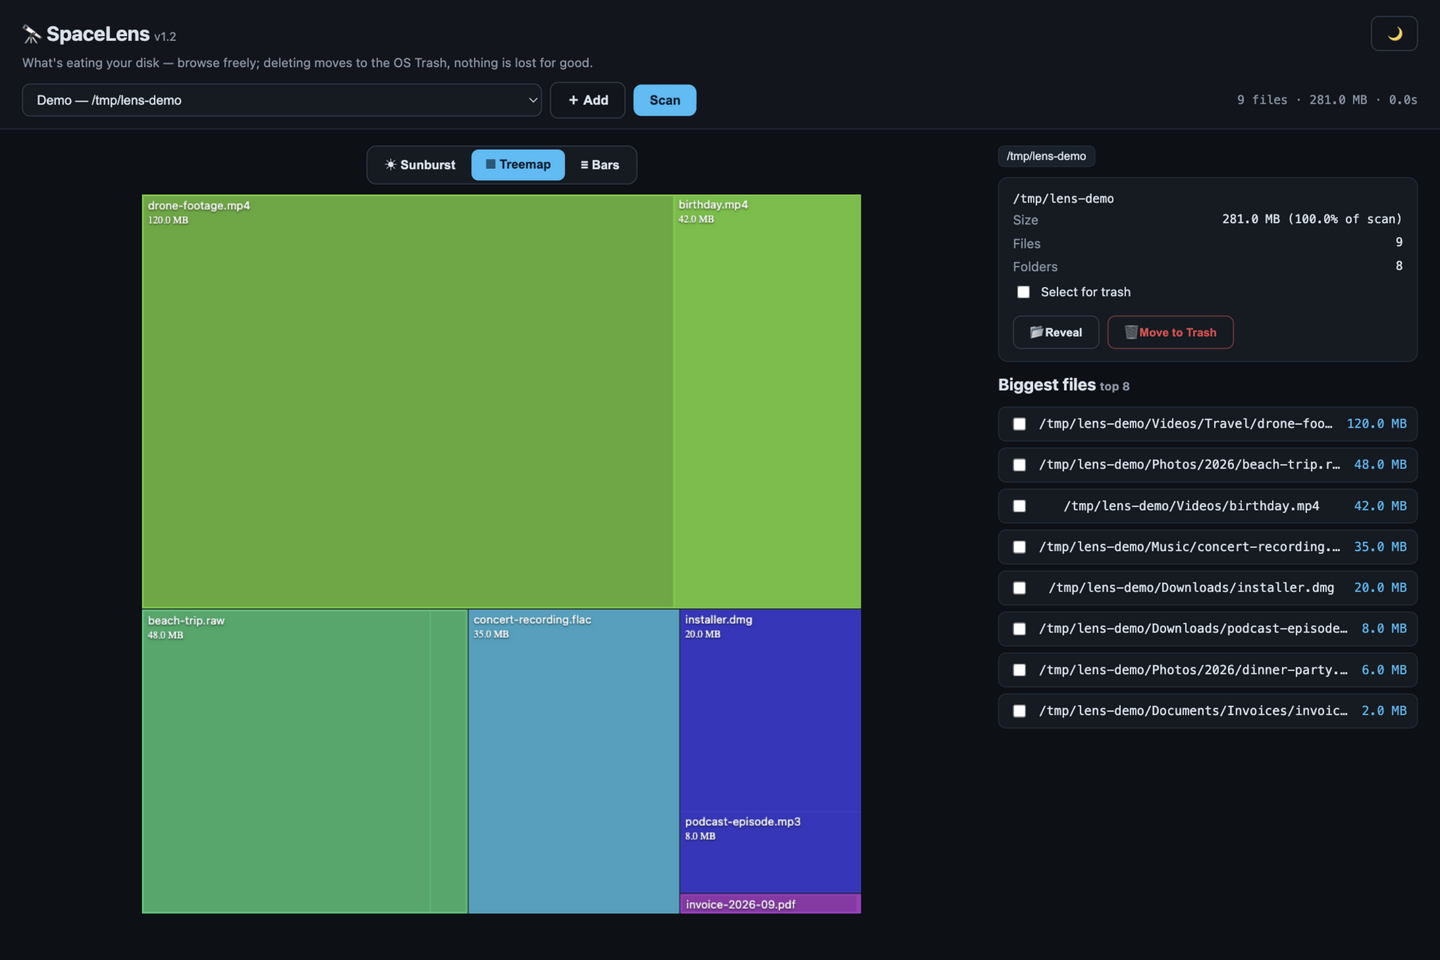
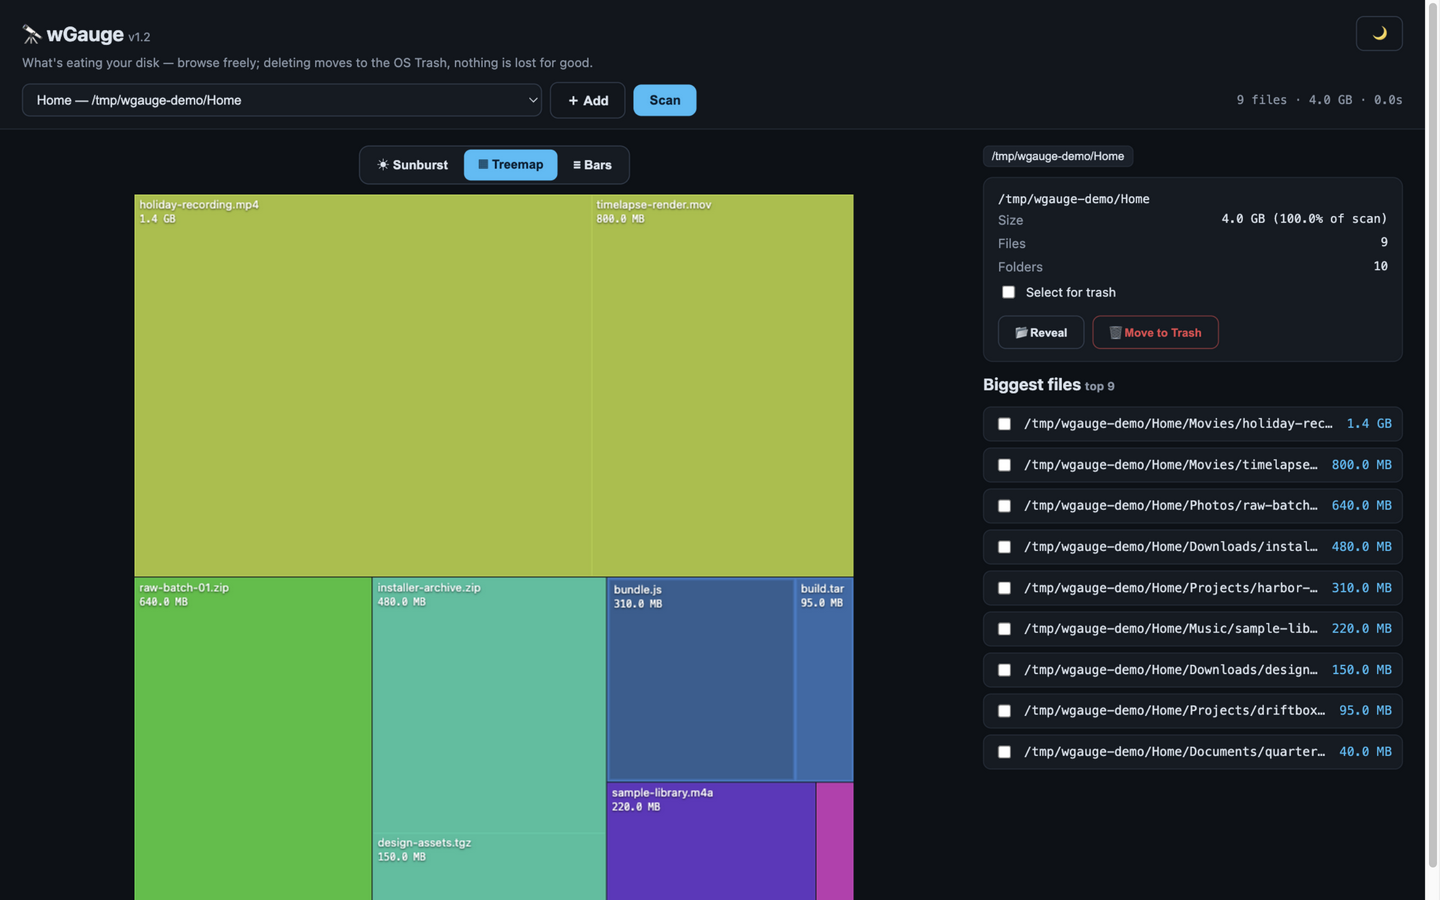
Fresh privacy-safe screenshots for every app; finish the wGrid docs and rename leftovers
- replace every screenshot with new ones staged on a demo machine
  (demo-mac.local / user demo, documentation-range IPs, fictional app
  names and domains — no real workstation, network or identity data)
- add wGrid/docs/screenshots/intel.png and a wGrid README
- rebrand the wTower, wGauge and wPurge READMEs to the new names
- wLens: RepoLens heading → wLens, WLENS_DATA env (legacy name honored)
- drop the stray desktop screenshot from the wTower folder

diff --git a/wLens/public/index.html b/wLens/public/index.html
@@ -22,7 +22,7 @@
 <body>
   <header class="hero">
     <button id="theme-toggle" class="theme-toggle" type="button" aria-label="Toggle color theme">☀</button>
-    <h1>Repo<span>Lens</span></h1>
+    <h1>w<span>Lens</span></h1>
     <p class="tagline">Search GitHub for apps — not code. Find it, download it, run it.</p>
     <form id="search-form" autocomplete="off">
       <input id="search-input" type="search" placeholder='Try &quot;music downloader&quot; or &quot;screenshot tool&quot;' autofocus>

diff --git a/wLens/cmd/wlens/main.go b/wLens/cmd/wlens/main.go
@@ -118,7 +118,10 @@ func main() {
 		port = 3000
 	}
 
-	dataDir := os.Getenv("REPOLENS_DATA")
+	dataDir := os.Getenv("WLENS_DATA")
+	if dataDir == "" {
+		dataDir = os.Getenv("REPOLENS_DATA") // pre-rename name, still honored
+	}
 	if dataDir == "" {
 		dataDir = os.Getenv("APPDECK_DATA")
 	}

diff --git a/wGrid/README.md b/wGrid/README.md
@@ -1,0 +1,123 @@
+# 🚔 wGrid
+
+**The known-IP intel feed for the deck — the published network ranges of
+well-known providers, served over loopback to wHawk and wTower.**
+
+wGrid fetches each provider's official IP list (Google & YouTube, Cloudflare,
+Apple, GitHub, Meta…), merges them with bundled seed snapshots for providers
+without a stable public source, and publishes the result as CIDR tables:
+
+- **wHawk** consults the feed so its alerts can label or calm findings on
+  known provider endpoints.
+- **wTower**'s Blocked panel uses the same tables to block an entire provider
+  (its 🌐 country rules pull their CIDR data from here automatically).
+
+| | |
+|---|---|
+| ![IP intel feed](docs/screenshots/intel.png) | |
+
+*(Screenshot: the feed serving its default providers — public network-range
+data only.)*
+
+---
+
+## What you get
+
+- **📡 IP intel** — per-provider CIDR tables, merged from live sources and
+  bundled seeds; the header shows the live count (`5 PROVIDERS · 8933
+  NETWORKS`) and the last update time.
+- **🔎 IP lookup** — type any address and see which provider (if any) owns
+  its network.
+- **📰 Sources you control** — each row shows the source URL, format
+  (`goog`, `text`, `github-meta`, `git`…) and its status; **refresh now**
+  refetches everything, **＋ add source** takes another provider URL or a
+  FireHOL-style git repo, and a ✕ removes it. Sources are data, not code —
+  `sources.json` in the feed folder, editable without a rebuild.
+- **🧩 Installed apps (via wPurge)** — scans the apps wPurge reports
+  installed and matches them against a small catalog of official vendor IP
+  databases (Google, Microsoft, GitHub, Telegram, Meta); adding one feeds its
+  ranges to wHawk. Apps wPurge no longer sees (leftovers) belong to wPurge's
+  own Traces tab, and there is no DNS step — domain-level blocking lives in
+  wTower's DNS shield.
+- **🤝 Peer pills** — live status of the two peers it pairs with (wHawk,
+  wPurge), discovered through the AppDeck launcher's app registry with a
+  fallback to configured URLs.
+- **🔒 Loopback-only, zero telemetry** — feeds are fetched from their
+  publishers and served to local peers; nothing about your machine leaves it.
+
+---
+
+## Install
+
+### The easy way — with the AppDeck launcher
+
+1. Put this folder in the launcher's `Apps/` directory (or import its zip).
+2. Start the launcher — it builds wGrid on first start — and click the
+   **🚔 wGrid** tile. Run it beside **wHawk** and **wTower** for the full
+   picture; the peers are found automatically through the launcher's app
+   registry.
+
+### Build it yourself
+
+Requires [Go](https://go.dev/dl/):
+
+```sh
+cd wGrid
+go build -o wgrid ./cmd/wgrid
+./wgrid 8768
+# open http://127.0.0.1:8768
+```
+
+The server accepts a bare port positionally (as AppDeck passes one), or uses
+`APPDECK_PORT`/`PORT` from the environment; without any of them it defaults
+to `8768`. `WGRID_ROOT` points at the app folder when you run the binary from
+elsewhere.
+
+---
+
+## Your first five minutes
+
+1. Open the dashboard — the provider table fills with the default sources
+   and their statuses.
+2. Type a known IP (e.g. `8.8.8.8`) into **look up an IP** and see the
+   provider match.
+3. Press **↻ refresh now** to pull fresh ranges from every live source.
+4. **＋ add source** to follow another provider's published list, or ✕ a row
+   to stop tracking it.
+5. Open **wTower**'s Blocked panel and block one of these providers — the
+   CIDR data comes straight from this feed.
+
+---
+
+## How it's built (for the curious / the expert)
+
+```
+cmd/wgrid/
+├─ main.go       — loopback server, port resolution, peer wiring
+├─ intelfeed.go  — fetch/merge of provider sources + bundled seed snapshots
+├─ sources.go    — source list plumbing (sources.json, add/delete, formats)
+├─ api.go        — the JSON API (status, networks, intel lookup, sources, wired)
+├─ catalog.go    — installed-app → vendor IP database matching rules
+├─ wpurge.go     — wPurge client for the installed-apps inventory
+├─ wired.go      — peer discovery via the launcher registry (+ fixed-URL fallback)
+├─ git.go        — FireHOL-style git sources (shallow clone, pull, parse)
+├─ migrate.go    — seeds the feed folder on first run, migrates old state
+└─ hostguard.go  — DNS-rebinding / cross-site guard (house style)
+```
+
+- **State lives in the feed folder** (`<APPDECK_DATA>/feed` under the
+  launcher; `./data` on a manual run): `sources.json` (the source list),
+  `cache.json` (last-good ranges per provider) and `repos/` (git sources).
+  Delete the folder and the app rebuilds it from seeds.
+- **Seeds keep the feed useful offline**: a bundled snapshot serves while a
+  live source is being fetched or failing — the status column says which
+  origin a provider's data came from (`fetch` vs `seed`).
+- **No DNS, no proxying** — wGrid only publishes IP ranges; name-layer
+  blocking is wTower's DNS shield, and wGrid never sees your traffic.
+
+## Verify
+
+```sh
+go build ./... && go vet ./...
+./wgrid 8768   # open the dashboard, look up 8.8.8.8, refresh now
+```

diff --git a/README.md b/README.md
@@ -7,22 +7,23 @@ start AppDeck from its own folder next to this one and every app below
 appears on its dashboard.
 
 For a first run, keep `Apps/` beside the `Appdeck/` launcher folder, then
-start AppDeck with `go run .` from inside `Appdeck/`.
+start AppDeck with `go run ./cmd/appdeck` from inside `Appdeck/`.
 
 ## The apps
 
 | App folder | Purpose | How to run |
 |---|---|---|
-| [AppScopeMonitor](AppScopeMonitor/README.md) | Local device, privacy, and network activity dashboard | Start from AppDeck; Go can also run it directly |
-| [Sentinel](Sentinel/README.md) | Host checks and security alerts | Start from AppDeck; Go can also run it directly |
-| [Descale](Descale/README.md) | Review cleanup candidates and restore items from Trash | Start from AppDeck; Go can also run it directly |
-| [SpaceLens](SpaceLens/README.md) | See what's eating your disk — sunburst, treemap and bars — then send the hogs to Trash | Start from AppDeck; Go can also run it directly |
-| [RepoLens](RepoLens/README.md) | Search GitHub for open-source applications | Start from AppDeck or run the Go server directly |
+| [wTower](wTower/README.md) | Local device, privacy, and network activity dashboard | Start from AppDeck; Go can also run it directly |
+| [wHawk](wHawk/README.md) | Host checks and security alerts | Start from AppDeck; Go can also run it directly |
+| [wGrid](wGrid/README.md) | Known-IP intel feed — provider network ranges for wHawk and wTower | Start from AppDeck; Go can also run it directly |
+| [wPurge](wPurge/README.md) | Review cleanup candidates and restore items from Trash | Start from AppDeck; Go can also run it directly |
+| [wGauge](wGauge/README.md) | See what's eating your disk — sunburst, treemap and bars — then send the hogs to Trash | Start from AppDeck; Go can also run it directly |
+| [wLens](wLens/README.md) | Search GitHub for open-source applications | Start from AppDeck or run the Go server directly |
 | [TokenReport](TokenReport/README.md) | Analyze selected local AI-agent logs | Start from AppDeck |
 | [WifiGuard](WifiGuard/README.md) | View which AppDeck apps are shared on Wi-Fi | Start from AppDeck |
 
-AppScopeMonitor, Sentinel, Descale, SpaceLens and RepoLens are Go apps the
-launcher builds on first start; TokenReport and Wi-Fi Guard are static pages
+wTower, wHawk, wGrid, wPurge, wGauge and wLens are Go apps the launcher
+builds on first start; TokenReport and Wi-Fi Guard are static pages
 served by AppDeck itself, with no separate runtime.
 
 ## Screenshots
@@ -32,15 +33,15 @@ workstation, network, or file details.*
 
 | | |
 |---|---|
-| ![AppScope Monitor activity dashboard](AppScopeMonitor/docs/screenshots/dashboard.png)<br>**AppScope Monitor** — device, privacy and network activity | ![Sentinel checks](Sentinel/docs/screenshots/checks.png)<br>**Sentinel** — host checks and alerts |
-| ![Descale home view](Descale/docs/screenshots/home.png)<br>**Descale** — cleanup candidates | ![SpaceLens sunburst view](SpaceLens/docs/screenshots/sunburst.png)<br>**SpaceLens** — sunburst disk map |
-| ![RepoLens results](RepoLens/docs/screenshots/results.png)<br>**RepoLens** — GitHub app search | ![Token Report dashboard](TokenReport/docs/screenshots/dashboard.png)<br>**Token Report** — AI-agent log analysis |
-| ![Wi-Fi Guard shared apps](WifiGuard/docs/screenshots/shared.png)<br>**Wi-Fi Guard** — apps shared on Wi-Fi | |
+| ![wTower activity dashboard](wTower/docs/screenshots/dashboard.png)<br>**wTower** — device, privacy and network activity | ![wHawk checks](wHawk/docs/screenshots/checks.png)<br>**wHawk** — host checks and alerts |
+| ![wGrid intel feed](wGrid/docs/screenshots/intel.png)<br>**wGrid** — known-IP provider ranges | ![wPurge home view](wPurge/docs/screenshots/home.png)<br>**wPurge** — cleanup candidates |
+| ![wGauge sunburst view](wGauge/docs/screenshots/sunburst.png)<br>**wGauge** — sunburst disk map | ![wLens results](wLens/docs/screenshots/results.png)<br>**wLens** — GitHub app search |
+| ![Token Report dashboard](TokenReport/docs/screenshots/dashboard.png)<br>**Token Report** — AI-agent log analysis | ![Wi-Fi Guard shared apps](WifiGuard/docs/screenshots/shared.png)<br>**Wi-Fi Guard** — apps shared on Wi-Fi |
 
-More views are in each app's `docs/screenshots/` folder — Sentinel's alert
-feed, Descale's guardrails and batch uninstall, SpaceLens's treemap,
-RepoLens's search page, and AppScope Monitor's privacy, files and
-blocked-connections screens.
+More views are in each app's `docs/screenshots/` folder — wHawk's alert
+feed, wPurge's guardrails and batch uninstall, wGauge's treemap,
+wLens's search page, and wTower's privacy, files and blocked-connections
+screens.
 
 ## Get AppDeck from the releases
 
@@ -66,7 +67,7 @@ working.
 2. Start the launcher from `Appdeck/`:
 
    ```sh
-   go run .
+   go run ./cmd/appdeck
    ```
 
 3. Open <http://127.0.0.1:9090> if the browser did not open automatically.

diff --git a/wPurge/README.md b/wPurge/README.md
@@ -1,10 +1,10 @@
-# 💧 Descale
+# 💧 wPurge
 
 **The kettle-cleaner for your computer: buildup report, app uninstaller and startup
 manager — and nothing is ever touched without your confirmation.**
 
 Caches, logs, crash reports, leftover app traces, things that sneak into login items…
-Descale finds the scale, shows you exactly what it is, and moves it to the Trash (never
+wPurge finds the scale, shows you exactly what it is, and moves it to the Trash (never
 straight to deletion). Every session is journalled and restorable.
 
 | | |
@@ -22,7 +22,7 @@ straight to deletion). Every session is journalled and restorable.
 - **💧 Buildup report** — regenerable caches (browser, app, cargo, brew…), logs, crash
   reports, orphaned downloads — grouped, sized, and separated from *your data*.
 - **🗑 App uninstaller — one app or a whole batch** — pick an app (or check
-  several and press *Uninstall selected*): Descale collects the binary plus its scattered
+  several and press *Uninstall selected*): wPurge collects the binary plus its scattered
   traces (preferences, appdata, caches) for one confirmed Trash move. Batch
   uninstalls write one restorable journal entry per app; running apps and
   AppDeck apps (their removal is permanent) are skipped with a reason —
@@ -48,14 +48,14 @@ straight to deletion). Every session is journalled and restorable.
 ### The easy way — with the AppDeck launcher
 
 1. Put this folder in the launcher's `Apps/` directory (or import its zip).
-2. Start the launcher — it builds Descale on first start — and click the **💧 Descale** tile.
+2. Start the launcher — it builds wPurge on first start — and click the **💧 wPurge** tile.
 
 ### Build it yourself
 
 Requires [Go](https://go.dev/dl/):
 
 ```sh
-cd Descale
+cd wPurge
 go build -o wpurge ./cmd/wpurge
 ./wpurge 8212
 # open http://127.0.0.1:8212

diff --git a/wGauge/README.md b/wGauge/README.md
@@ -1,4 +1,4 @@
-# 🔭 SpaceLens
+# 🔭 wGauge
 
 **What's eating your disk? Scan any folder or volume and see it — sunburst, treemap or
 bars — then drill in, reveal, and trash the hogs. Read-mostly by design.**
@@ -26,7 +26,7 @@ paths are guarded.
   queue.
 - **📂 Reveal** — open any file or folder in Finder / Explorer / your file manager.
 - **🗑 Safe deletion** — *Move to Trash only*; root paths and system locations are
-  guarded; nothing is ever permanently deleted by SpaceLens.
+  guarded; nothing is ever permanently deleted by wGauge.
 - **📁 Native folder picker** — choose scan roots through the OS dialog; presets for home,
   Applications and volumes included.
 - **🌙 Dark UI, fully local** — the scanner and server run on loopback.
@@ -38,17 +38,17 @@ paths are guarded.
 ### The easy way — with the AppDeck launcher
 
 1. Put this folder in the launcher's `Apps/` directory (or import its zip).
-2. Start the launcher — it builds SpaceLens on first start — and click the **🔭
-   SpaceLens** tile.
+2. Start the launcher — it builds wGauge on first start — and click the **🔭
+   wGauge** tile.
 
 ### Build it yourself
 
 Requires [Go](https://go.dev/dl/):
 
 ```sh
-cd SpaceLens
-go build -o spacelens ./cmd/spacelens
-./spacelens -port 8767
+cd wGauge
+go build -o wgauge ./cmd/spacelens
+./wgauge -port 8767
 # open http://127.0.0.1:8767
 ```
 
@@ -86,5 +86,5 @@ cmd/spacelens/
 
 ```sh
 go build ./... && go vet ./...
-./spacelens -port 8767   # scan a small folder, zoom, reveal
+./wgauge -port 8767   # scan a small folder, zoom, reveal
 ```

diff --git a/wTower/README.md b/wTower/README.md
@@ -1,8 +1,8 @@
-# 🛡 AppScope Monitor
+# 🛡 wTower
 
 **See what your computer is really doing — and cut off anything you don't like.**
 
-wTower (AppScope Monitor) is a live dashboard for your Mac, Windows PC, or Linux box that
+wTower is a live dashboard for your Mac, Windows PC, or Linux box that
 answers three questions in real time: *who is using my camera and mic?*, *which apps are talking
 to the internet (and where)?*, and *how do I block them?* — all on one page, all stored on your
 machine, nothing sent anywhere. (The host watchdog lives in the companion **wHawk** app and the
@@ -54,7 +54,7 @@ no cloud, no telemetry.
 
 1. Put this folder in the launcher's `Apps/` directory (or import its zip).
 2. Start the launcher — it builds the app automatically on first start.
-3. Click the **🛡 AppScope Monitor** tile. Your browser opens the dashboard. Done.
+3. Click the **🛡 wTower** tile. Your browser opens the dashboard. Done.
 
 ### The standalone way — just Go
 
@@ -62,9 +62,9 @@ Requires [Go](https://go.dev/dl/) 1.27+. No C compiler, no extra installs — th
 is pure Go.
 
 ```sh
-cd AppScopeMonitor
-go build -o monitor ./cmd/monitor   # builds the binary
-./monitor --open                     # start it and open the dashboard
+cd wTower
+go build -o wtower ./cmd/wtower   # builds the binary
+./wtower --open                     # start it and open the dashboard
 ```
 
 The dashboard lives at `http://127.0.0.1:8765` (change with `--port`).
